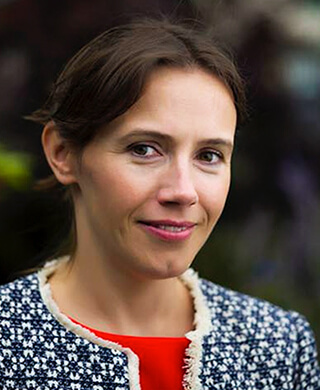
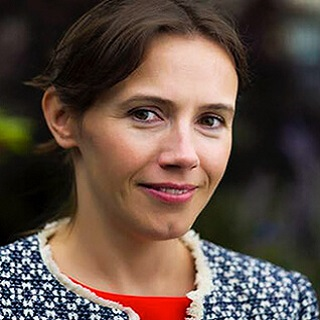
Changes pictures newsfeed
Work in progress.
Using same sized/ratio pictures to get a nicer overview on page

diff --git a/news/newsfeed.html b/news/newsfeed.html
@@ -107,14 +107,14 @@
 
       <!-- Project Section -->
       <div class="container" id="Biology">
-        <h3 align="center" class="w3-border-bottom w3-border-light-grey w3-padding-16">Latest News</h3>
+        <h1 align="center" class="w3-border-bottom w3-border-light-grey w3-padding-12">Latest News</h1>
       </div>
 
       <div class="row">
         <div class="col-4">
           <div class="w3-display-container">
             <div class="w3-display-topleft w3-black w3-padding">What can a DNA test actually reveal about your ancestry?</div>
-            <img src="./images/dna.jpg" alt="dna" style=" height:100% width:100%">
+            <img src="./images/dna.jpg" alt="dna" style="width:100%">
           </div>
         </div>
         <div class="col-4">
@@ -125,7 +125,7 @@
         </div>
         <div class="col-4">
           <div class="w3-display-container">
-            <div class="w3-display-topleft w3-black w3-padding">How to Overcome Imposter Syndrome</div>
+            <div class="w3-display-topleft w3-black w3-padding">How to Overcome your Imposter Syndrome</div>
             <img src="./images/impostersyndrome.png" alt="impostersyndrome" style=" width:80%">
           </div>
         </div>
@@ -163,7 +163,7 @@
 
       <!-- About Section -->
       <div class="w3-container w3-padding-32" id="about">
-        <h3 align="center" class="w3-border-bottom w3-border-light-grey w3-padding-16">Blogposts</h3>
+        <h2 align="center" class="w3-border-bottom w3-border-light-grey w3-padding-16">Blogposts</h2>
         <p> Blogposts on our website are submitted by STEMinist community members from a wide range of backgrounds with varying levels of writing experience. If you would like to become a guest blogger for our website, please use the form below to introduce yourself. We would like to know your credentials, a brief
           biography, what your particular interest is, and an example of your writing (no longer than a typical blog post of 500-1000 words). We look forward to hearing from you.
         </p>

diff --git a/women_in_science/biology.html b/women_in_science/biology.html
@@ -106,7 +106,7 @@
     <main role="main" class="container" style="max-width:1250px">
 
       <div class="text-center">
-        <h1>Women in Biology</h1>
+        <h1 align="center" class="w3-border-bottom w3-border-light-grey">Women in Biology</h1>
         <p><br></p>
       </div>
 
